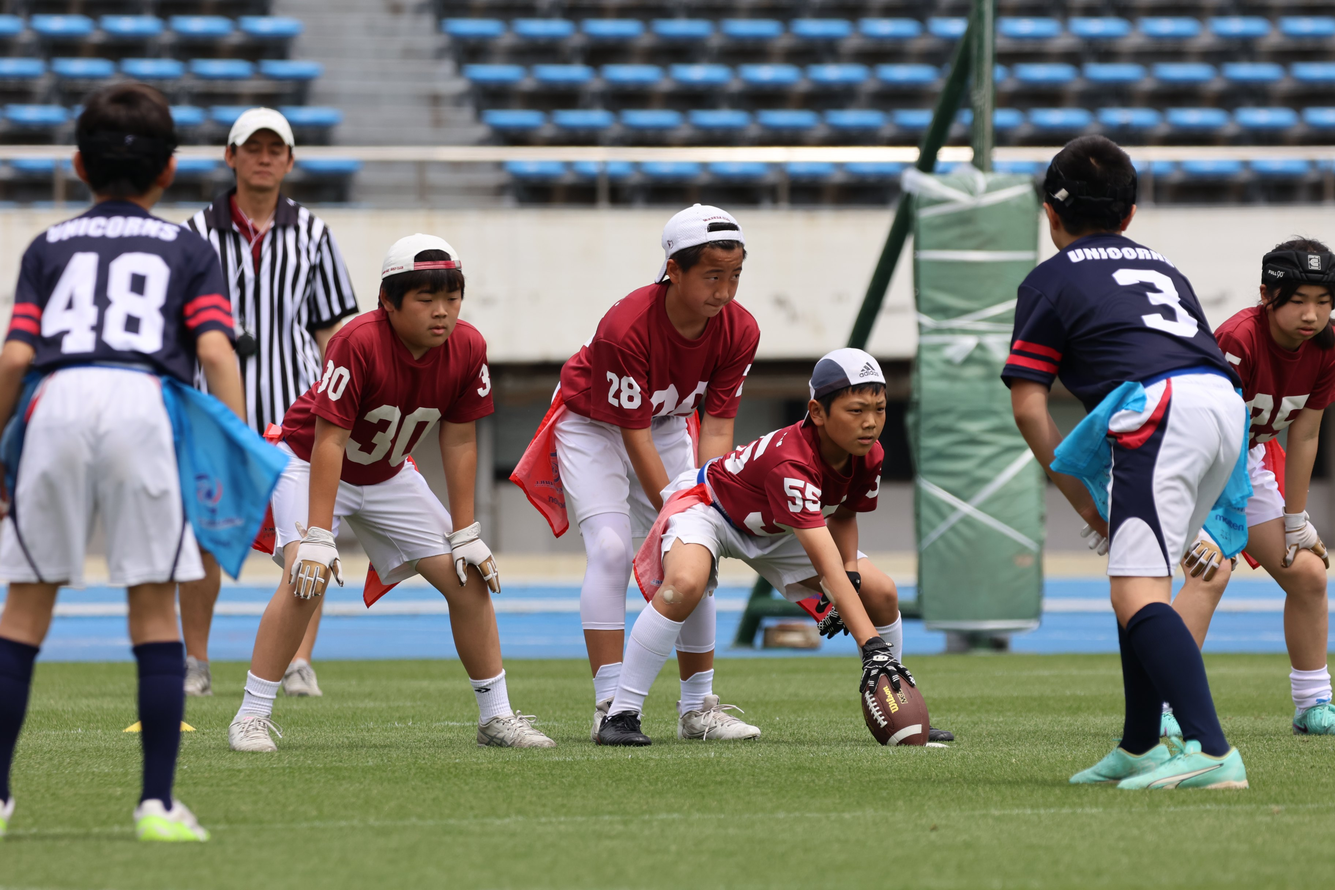
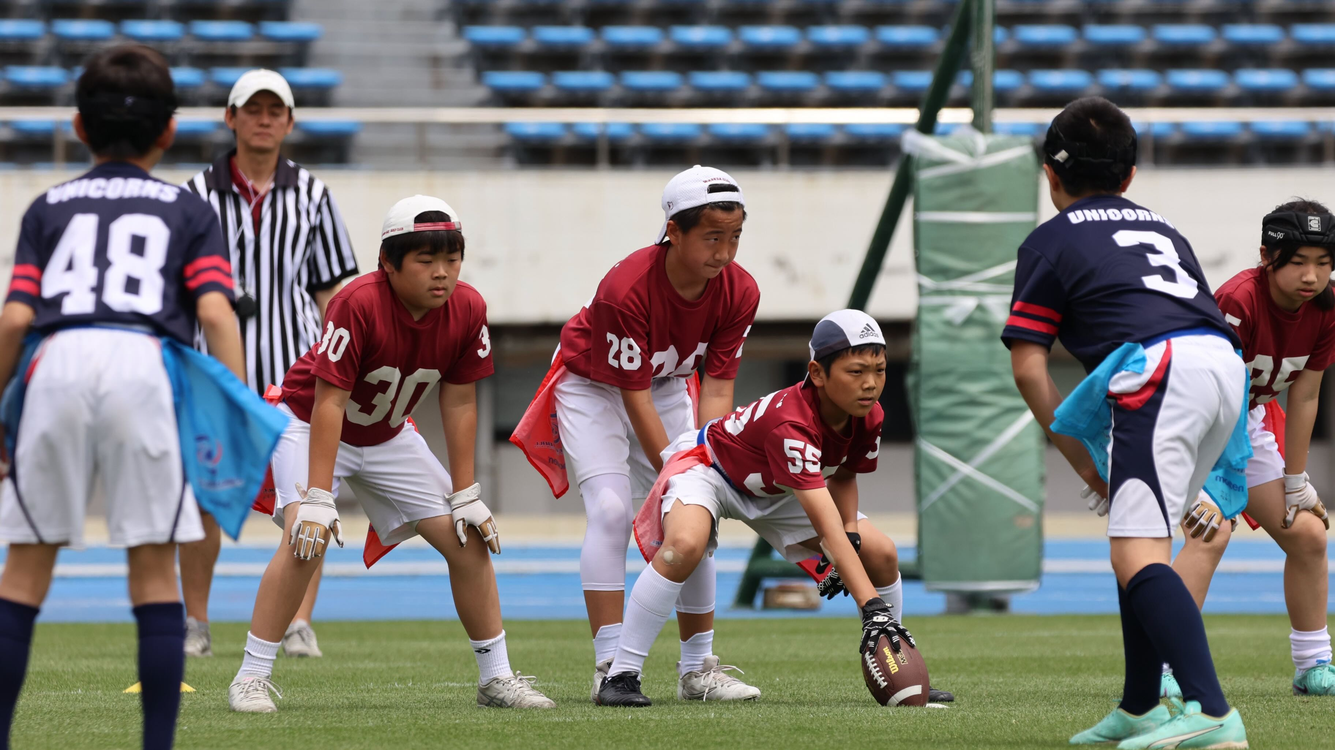
TOPページの写真をスライドショーに変更

diff --git a/_sass/main.scss b/_sass/main.scss
@@ -121,3 +121,71 @@ footer {
     color: white;
   }
 }
+
+
+
+//
+// for slide show
+//
+.img-frame{
+   position: relative;
+   width: 70%;
+   height: 0;
+   padding-bottom: 70% * 0.56; /* 70% * 56.25% 16:9 アスペクト比 */
+   overflow: hidden;
+   margin: 0 auto;
+}
+@media screen and (max-width: 767px){
+.img-frame{
+   width: 100%;
+   padding-bottom: 100% * 0.56; /* 70% * 56.25% 16:9 アスペクト比 */
+}
+}
+.img-01, .img-02, .img-03, .img-04{
+   position: absolute;
+   top:0;
+   left:0;
+   width: 100%;
+}
+.img-01 {
+ animation: slide-animation-01 24s infinite;
+}
+.img-02 {
+ animation: slide-animation-02 24s infinite;
+}
+.img-03 {
+ animation: slide-animation-03 24s infinite;
+}
+.img-04 {
+ animation: slide-animation-04 24s infinite;
+}
+@keyframes slide-animation-01 {
+   0% {opacity: 1; transform: scale(1.0);}
+  30% {opacity: 1;}
+  40% {opacity: 0; transform: scale(1.1);}
+  90% {opacity: 0}
+ 100% {opacity: 1; transform: scale(1.0);}
+}
+@keyframes slide-animation-02 {
+   0% {opacity: 0;}
+  30% {opacity: 0; transform: scale(1.1);}
+  40% {opacity: 1;}
+  60% {opacity: 1;}
+  70% {opacity: 0; transform: scale(1.0);}
+ 100% {opacity: 0;}
+}
+@keyframes slide-animation-03 {
+    0% {opacity: 0;}
+  60% {opacity: 0;  transform: scale(1.0);}
+  70% {opacity: 1;}
+  90% {opacity: 1;}
+100% {opacity: 0; transform: scale(1.1);}
+}
+@keyframes slide-animation-04 {
+   0% {opacity: 0;}
+  30% {opacity: 0; transform: scale(1.1);}
+  40% {opacity: 1;}
+  60% {opacity: 1;}
+  70% {opacity: 0; transform: scale(1.0);}
+ 100% {opacity: 0;}
+}

diff --git a/index.md b/index.md
@@ -3,8 +3,12 @@ layout: default
 title: WASEDA CLUB Flag Football
 ---
 
-
-<div id="main_visual"><p><img src="assets/images/main_visual_1.jpeg" alt="waseda club flag football"></p></div>
+<div class="img-frame">
+   <div class="img-01"><p><img src="assets/images/main_visual_1.jpeg"></p></div>
+   <div class="img-02"><p><img src="assets/images/main_visual_2.jpeg"></p></div>
+   <div class="img-03"><p><img src="assets/images/main_visual_3.jpeg"></p></div>
+   <div class="img-03"><p><img src="assets/images/main_visual_4.jpeg"></p></div>
+</div>
 
 
 （建設中）
